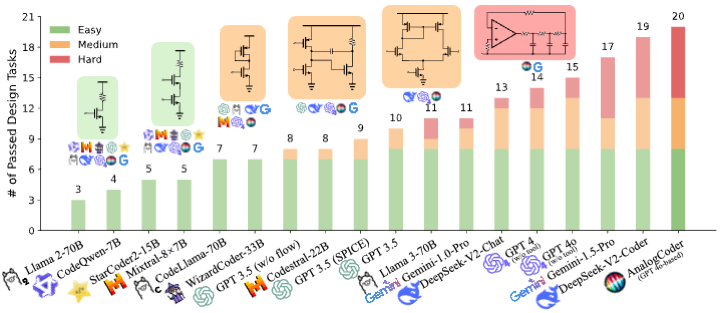
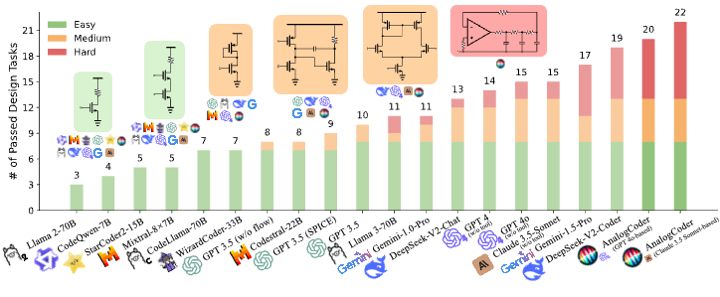
add lab and claude3.5

diff --git a/README.md b/README.md
@@ -6,18 +6,29 @@
 
 The code implement for paper **AnalogCoder: Analog Circuit Design via Training-Free Code Generation**. 
 
-[Yao Lai](https://laiyao1.github.io/) <sup>1</sup>, [Sungyoung Lee](https://brianlsy98.github.io/) <sup>2</sup>, [Guojin Chen](https://gjchen.me/) <sup>3</sup>, [Souradip Poddar](https://www.linkedin.com/in/souradip-poddar-52376212a/) <sup>2</sup>, [Mengkang Hu](https://aaron617.github.io/) <sup>1</sup>, [David Z. Pan](https://users.ece.utexas.edu/~dpan/) <sup>2</sup>, [Ping Luo](http://luoping.me/) <sup>1</sup>.
+[Yao Lai](https://laiyao1.github.io/)<sup>1</sup>, [Sungyoung Lee](https://brianlsy98.github.io/)<sup>2</sup>, [Guojin Chen](https://gjchen.me/)<sup>3</sup>, [Souradip Poddar](https://www.linkedin.com/in/souradip-poddar-52376212a/)<sup>2</sup>, [Mengkang Hu](https://aaron617.github.io/)<sup>1</sup>, [David Z. Pan](https://users.ece.utexas.edu/~dpan/)<sup>2</sup>, [Ping Luo](http://luoping.me/)<sup>1</sup>.
 
 <sup>1</sup> The University of Hong Kong,
 <sup>2</sup> The University of Texas at Austin,
 <sup>3</sup> The Chinese University of Hong Kong.
+
+<div style="display: flex; justify-content: center; gap: 10px;">
+  <a href="https://mmlab-hku.com/" target="_blank">
+    <img src="hkummlab.png" alt="Image 1" style="width: 30%;"/>
+  </a>
+  <a href="https://www.cerc.utexas.edu/utda/" target="_blank">
+    <img src="utda.jpg" alt="Image 2" style="width: 80%;"/>
+  </a>
+</div>
+
+
 
 [[Paper](https://arxiv.org/pdf/2405.14918)]
 
 # Introduction
 
 <p align="center">
-  <img src="teaser.png" alt="alt text"width="700">
+  <img src="teaser.png" alt="alt text"width="800">
 </p>
 
 **Analog circuit design** is a significant task in modern chip technology, focusing on selecting component types, connectivity, and parameters to ensure proper circuit functionality. Despite advances made by Large Language Models (LLMs) in digital circuit design, the **complexity** and **scarcity of data** in analog circuitry pose significant challenges. To mitigate these issues, we introduce **AnalogCoder**, the *first* training-free LLM agent for designing analog circuits that converts tasks into **Python code generation**. 
@@ -34,38 +45,41 @@ In summary, AnalogCoder can significantly improve the labor-intensive chip desig
 
 **Ranking method**: # of solved (number of successfully solved circuit design problems) takes priority. If tied, higher average Pass@1 takes priority.
 
-| LLM Model               |      Avg. Pass@1 |      Avg. Pass@5 |     # of Solved |
-|-------------------------|-----------------:|-----------------:|----------------:|
-| Llama2-7B               |              0.0 |              0.0 |               0 |
-| Llama2-13B              |              0.0 |              0.0 |               0 |
-| Llama3-8B               |              0.1 |              0.7 |               1 |
-| Qwen-1.5-110B           |              0.3 |              1.4 |               2 |
-| CodeLlama-13B           |              0.6 |              2.5 |               2 |
-| Mistral-7B              |              3.3 |              7.7 |               2 |
-| Llama 2-70B             |              5.1 |              9.8 |               3 |
-| QwenCode-7B             |              1.1 |              5.6 |               4 |
-| CodeLlama-34B           |              1.9 |              7.4 |               4 |
-| CodeLlama-7B            |              2.4 |              9.0 |               4 |
-| DeepSeek-Coder-33B      |              4.0 |             10.2 |               4 |
-| Mixtral-8×7B            |              5.6 |             12.4 |               5 |
-| CodeLlama-70B           |              3.2 |             12.2 |               7 |
-| WizardCoder-33B         |              7.1 |             16.9 |               7 |
-| GPT-3.5 (w/o context)   |              8.1 |             18.5 |               7 |
-| GPT-3.5 (w/o flow)      |             12.8 |             25.3 |               8 |
-| Codestral-22B           |             16.4 |             29.1 |               8 |
-| GPT-3.5 (w/o CoT)       |             19.4 |             26.3 |               8 |
-| GLM-4                   |             22.8 |             31.2 |               8 |
-| GPT-3.5 (SPICE)         |             13.9 |             26.9 |               9 |
-| GPT-3.5                 |             21.4 |             35.0 |              10 |
-| GPT-3.5 (fine-tune)     |             28.1 |             39.6 |              10 |
-| Llama3-70B              |             28.8 |             36.4 |              11 |
-| Gemini-1.0-Pro              |             28.9 |             41.2 |              11 |
-| Gemini-1.5-Flash              |             35.7 |             40.6 |              11 |
-| DeepSeek-V2-Chat             |             38.6 |             44.3 |              13 |
-| GPT-4o (w/o tool)       |             54.2 |             58.9 |              15 |
-| Gemini-1.5-Pro             |             33.9 |             44.6 |              17 |
-| DeepSeek-V2-Coder             |             56.5 |             69.2 |              19 |
-| AnalogCoder             |             66.1 |             75.9 |              20 |
+| LLM Model                              |      Avg. Pass@1 |      Avg. Pass@5 |     # of Solved |
+|----------------------------------------|-----------------:|-----------------:|----------------:|
+| Llama2-7B                              |              0.0 |              0.0 |               0 |
+| Llama2-13B                             |              0.0 |              0.0 |               0 |
+| Llama3-8B                              |              0.1 |              0.7 |               1 |
+| Qwen-1.5-110B                          |              0.3 |              1.4 |               2 |
+| CodeLlama-13B                          |              0.6 |              2.5 |               2 |
+| Mistral-7B                             |              3.3 |              7.7 |               2 |
+| Llama 2-70B                            |              5.1 |              9.8 |               3 |
+| QwenCode-7B                            |              1.1 |              5.6 |               4 |
+| CodeLlama-34B                          |              1.9 |              7.4 |               4 |
+| CodeLlama-7B                           |              2.4 |              9.0 |               4 |
+| DeepSeek-Coder-33B                     |              4.0 |             10.2 |               4 |
+| Mixtral-8×7B                           |              5.6 |             12.4 |               5 |
+| CodeLlama-70B                          |              3.2 |             12.2 |               7 |
+| WizardCoder-33B                        |              7.1 |             16.9 |               7 |
+| GPT-3.5 (w/o context)                  |              8.1 |             18.5 |               7 |
+| GPT-3.5 (w/o flow)                     |             12.8 |             25.3 |               8 |
+| Codestral-22B                          |             16.4 |             29.1 |               8 |
+| GPT-3.5 (w/o CoT)                      |             19.4 |             26.3 |               8 |
+| GLM-4                                  |             22.8 |             31.2 |               8 |
+| GPT-3.5 (SPICE)                        |             13.9 |             26.9 |               9 |
+| GPT-3.5                                |             21.4 |             35.0 |              10 |
+| GPT-3.5 (fine-tune)                    |             28.1 |             39.6 |              10 |
+| Llama3-70B                             |             28.8 |             36.4 |              11 |
+| Gemini-1.0-Pro                         |             28.9 |             41.2 |              11 |
+| Gemini-1.5-Flash                       |             35.7 |             40.6 |              11 |
+| DeepSeek-V2-Chat                       |             38.6 |             44.3 |              13 |
+| GPT-4 (w/o tool)                       |             51.1 |             57.7 |              14 |
+| GPT-4o (w/o tool)                      |             54.2 |             58.9 |              15 |
+| Claude-3.5-Sonnet (w/o tool)           |             58.1 |             60.7 |              15 |
+| Gemini-1.5-Pro                         |             33.9 |             44.6 |              17 |
+| DeepSeek-V2-Coder                      |             56.5 |             69.2 |              19 |
+| AnalogCoder (GPT 4o-based)             |             66.1 |             75.9 |              20 |
+| AnalogCoder (Claude 3.5 Sonnet-based)  |             76.1 |             86.3 |              22 |
 
 Note:
 1. All our results are reproducible.
